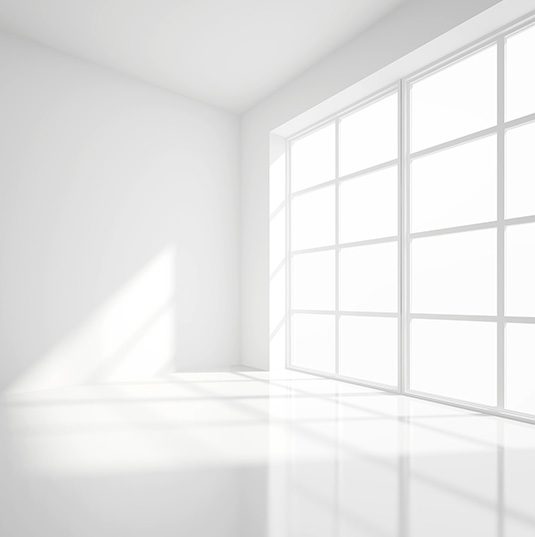
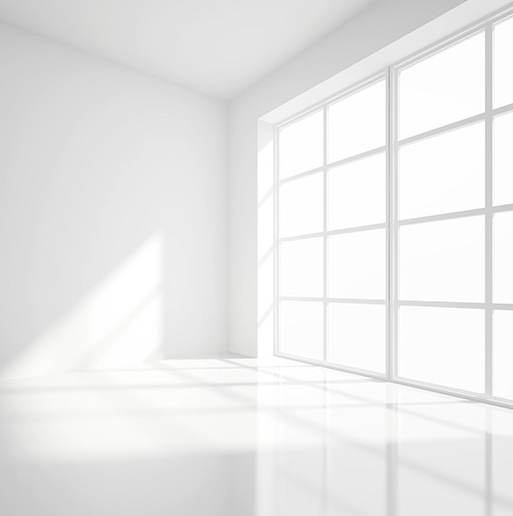
Added a benefits image

Changed region(s): [[0.5302, 0.0, 1.0, 0.8062], [0.9045, 0.8372, 0.9669, 0.9302], [0.6238, 0.5891, 0.655, 0.6202]]

diff --git a/Modules/ThemeBusiness/Resources/views/frontend/pages/partials/our-benefit.blade.php b/Modules/ThemeBusiness/Resources/views/frontend/pages/partials/our-benefit.blade.php
@@ -9,9 +9,11 @@
                     </div>
                 </div>
                 <h3 class="text-color-secondary font-weight-bold text-transform-none text-8 mb-3 pb-1 appear-animation animated fadeInUpShorter appear-animation-visible" data-appear-animation="fadeInUpShorter" data-appear-animation-delay="1200" style="animation-delay: 1200ms;">Our Benefits</h3>
-                <p class="mb-4 appear-animation animated fadeInUpShorter appear-animation-visible" data-appear-animation="fadeInUpShorter" data-appear-animation-delay="1400" style="animation-delay: 1400ms;">Cras a elit sit amet leo accumsan volutpat. Suspendisse
+                <p class="mb-4 appear-animation animated fadeInUpShorter appear-animation-visible" data-appear-animation="fadeInUpShorter" data-appear-animation-delay="1400" style="animation-delay: 1400ms;">
+                    Cras a elit sit amet leo accumsan volutpat. Suspendisse
                     hendrerit vehicula leo, vel efficitur felis ultrices non. Integer aliquet ullamcorper dolor,
-                    quis sollicitudin. Integer aliquet ullamcorper dolor, quis sollicitudin.</p>
+                    quis sollicitudin. Integer aliquet ullamcorper dolor, quis sollicitudin.
+                </p>
             </div>
         </div>
         <div class="row align-items-center justify-content-center mb-4">
@@ -116,7 +118,7 @@
                     </div>
                     <div class="position-absolute top-50pct left-50pct transform3dxy-n50" style="left: 25%;">
                         <div data-plugin-float-element="" data-plugin-options="{&#39;startPos&#39;: &#39;top&#39;, &#39;speed&#39;: 0.3, &#39;transition&#39;: true, &#39;transitionDuration&#39;: 1000, &#39;isInsideSVG&#39;: true}" style="top: 0px; transition: transform 1000ms ease-out 0ms; transform: translate3d(0px, -3.39352%, 0px);">
-                            <img src="{{ asset('public/modules/theme-business/images/common/generic-3.jpg') }}" class="img-fluid rounded-circle custom-box-shadow-1 appear-animation animated fadeInUpShorter appear-animation-visible" data-appear-animation="fadeInUpShorter" data-appear-animation-delay="1400" alt="" style="animation-delay: 1400ms;">
+                            <img src="{{ asset('public/modules/theme-business/images/common/our-benefits.jpg') }}" class="img-fluid rounded-circle custom-box-shadow-1 appear-animation animated fadeInUpShorter appear-animation-visible" data-appear-animation="fadeInUpShorter" data-appear-animation-delay="1400" alt="" style="animation-delay: 1400ms;">
                         </div>
                     </div>
                 </div>
